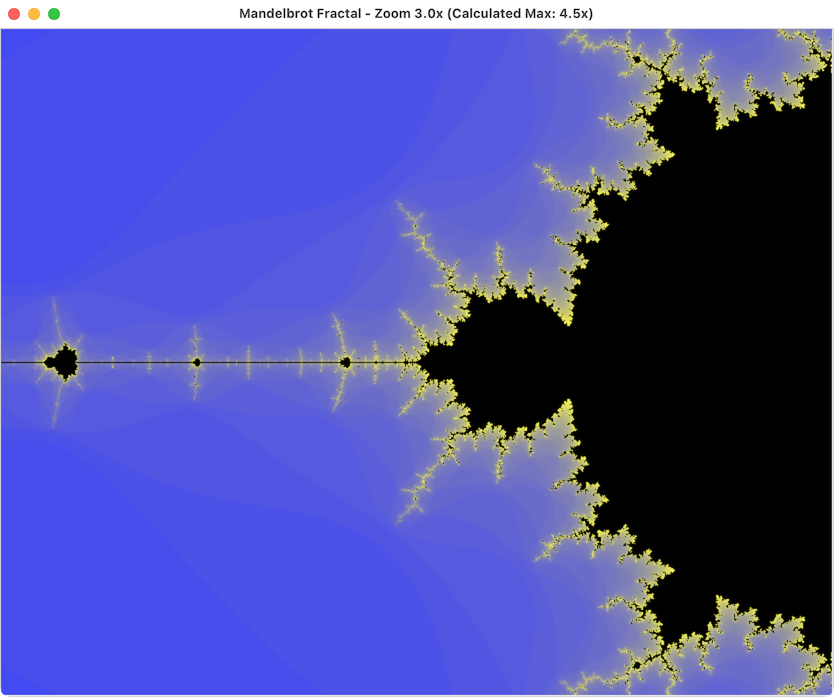
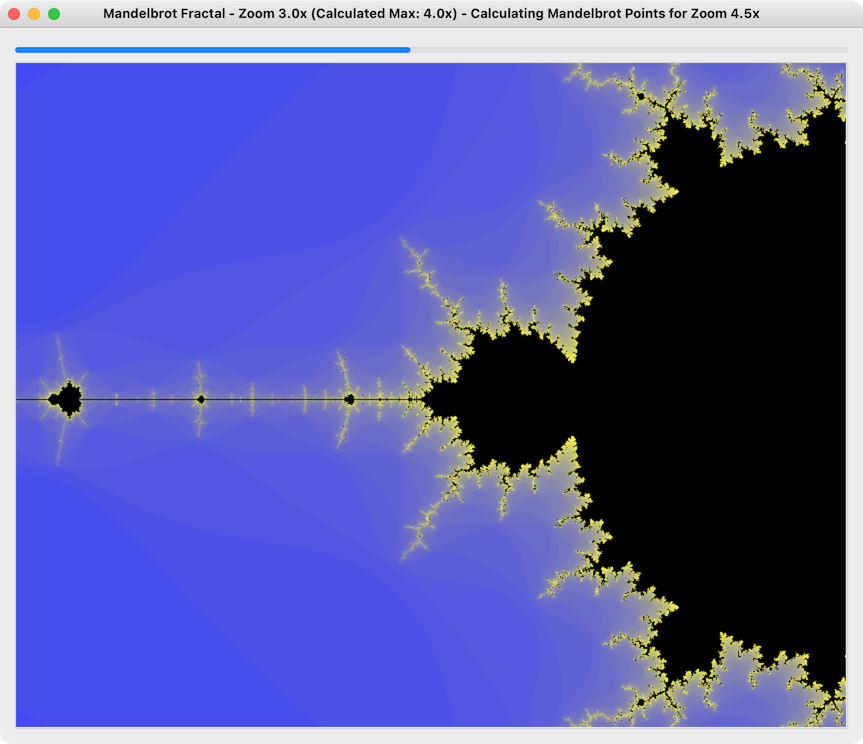
Mandelbrot Cores menu options to switch the number of CPU cores being used for calculation on the next zoom calculation cycle / Documented Hello, Progress Bar! / Added/Updated Mandelbrot/Hello-Progress-Bar Screenshots

Changed region(s): [[0.0, 0.0, 1.0, 1.0], [0.0624, 0.4218, 0.0935, 0.4519]]

diff --git a/samples/elaborate/mandelbrot_fractal.rb b/samples/elaborate/mandelbrot_fractal.rb
@@ -33,6 +33,7 @@ class Mandelbrot
   
   class << self
     attr_accessor :progress, :work_in_progress
+    attr_writer :processor_count
   
     def for(max_iterations:, zoom:, background: false)
       key = [max_iterations, zoom]
@@ -52,6 +53,10 @@ class Mandelbrot
     def creation_mutex
       @creation_mutex ||= Mutex.new
     end
+    
+    def processor_count
+      @processor_count ||= Concurrent.processor_count
+    end
   end
   
   attr_accessor :max_iterations, :background
@@ -65,7 +70,6 @@ class Mandelbrot
   def initialize(max_iterations:, zoom: 1.0, background: false)
     @max_iterations = max_iterations
     @zoom = zoom
-    @background = background
   end
   
   def step
@@ -92,18 +96,13 @@ class Mandelbrot
     @points ||= calculate_points
   end
   
-  def thread_count
-    # except on launch, shave two cores out for graphical user interface interaction and progress reporting to provide a better experience
-    @background ? [Concurrent.processor_count - 2, 1].max : Concurrent.processor_count
-  end
-  
   def calculate_points
     puts "Background calculation activated at zoom #{zoom}" if @background
     if @points_calculated
       puts "Points calculated already. Returning previously calculated points..."
       return @points
     end
-    thread_pool = Concurrent::FixedThreadPool.new(thread_count, fallback_policy: :discard)
+    thread_pool = Concurrent::FixedThreadPool.new(Mandelbrot.processor_count, fallback_policy: :discard)
     @points = Concurrent::Array.new(height)
     Mandelbrot.work_in_progress = "Calculating Mandelbrot Points for Zoom #{zoom}x"
     Mandelbrot.progress = 0
@@ -264,6 +263,31 @@ class MandelbrotFractal
           }
         }
         menu {
+          text '&Cores'
+          
+          Concurrent.processor_count.times {|n|
+            processor_number = n + 1
+            menu_item(:radio) {
+              text "&#{processor_number}"
+                
+              case processor_number
+              when 0..9
+                accelerator COMMAND, processor_number.to_s
+              when 10..19
+                accelerator COMMAND, :shift, (processor_number - 10).to_s
+              when 20..29
+                accelerator COMMAND, :alt, (processor_number - 20).to_s
+              end
+              
+              selection true if processor_number == Concurrent.processor_count
+              
+              on_widget_selected {
+                Mandelbrot.processor_count = n
+              }
+            }
+          }
+        }
+        menu {
           text '&Help'
           
           menu_item {
@@ -380,6 +404,7 @@ class MandelbrotFractal
         Left-click to zoom in.
         Right-click to zoom out.
         Scroll or drag to pan.
+        Lower cores to get more responsive interaction.
         
         Enjoy!
       MULTI_LINE_STRING

diff --git a/docs/reference/GLIMMER_SAMPLES.md b/docs/reference/GLIMMER_SAMPLES.md
@@ -36,6 +36,7 @@
     - [Hello, Canvas Animation!](#hello-canvas-animation)
     - [Hello, Canvas Transform!](#hello-canvas-transform)
     - [Hello, Cursor!](#hello-cursor)
+    - [Hello, Progress Bar!](#hello-progress-bar)
   - [Elaborate Samples](#elaborate-samples)
     - [User Profile](#user-profile)
     - [Login](#login)
@@ -600,6 +601,17 @@ Hello, Cursor!
 
 ![Hello Cursor](/images/glimmer-hello-cursor.gif)
 
+#### Hello, Progress Bar!
+
+This sample demonstrates the use of the `progress_bar` widget keyword.
+
+Code:
+
+[samples/hello/hello_progress_bar.rb](/samples/hello/hello_progress_bar.rb)
+
+Hello, Progress Bar!
+
+![Hello Progress Bar](/images/glimmer-hello-progress-bar.gif)
 
 ### Elaborate Samples
 
@@ -706,6 +718,8 @@ This sample demonstrates how to render canvas graphics with multi-threaded proce
 It renders the famous Mandelbrot Fractal, enabling zooming and panning (go to Help -> Instructions for more details)
 
 The Mandelbrot Fractal is known to take a long time to render, but thanks to multi-core processing, the app starts in about 10 seconds with 4 CPU cores (runs faster the more cores you have)
+
+Lower the cores in the menu to get more responsive interaction (e.g. zooming/panning). Once you change the cores, the change will not take effect till the next zoom calculation cycle.
 
 Code:
 

diff --git a/README.md b/README.md
@@ -1,4 +1,4 @@
-# [<img src="https://raw.githubusercontent.com/AndyObtiva/glimmer/master/images/glimmer-logo-hi-res.png" height=85 />](https://github.com/AndyObtiva/glimmer) Glimmer DSL for SWT 4.18.4.9
+# [<img src="https://raw.githubusercontent.com/AndyObtiva/glimmer/master/images/glimmer-logo-hi-res.png" height=85 />](https://github.com/AndyObtiva/glimmer) Glimmer DSL for SWT 4.18.4.10
 ## JRuby Desktop Development GUI Framework
 [![Gem Version](https://badge.fury.io/rb/glimmer-dsl-swt.svg)](http://badge.fury.io/rb/glimmer-dsl-swt)
 [![Travis CI](https://travis-ci.com/AndyObtiva/glimmer-dsl-swt.svg?branch=master)](https://travis-ci.com/github/AndyObtiva/glimmer-dsl-swt)
@@ -342,7 +342,7 @@ jgem install glimmer-dsl-swt
 
 Or this command if you want a specific version:
 ```
-jgem install glimmer-dsl-swt -v 4.18.4.9
+jgem install glimmer-dsl-swt -v 4.18.4.10
 ```
 
 `jgem` is JRuby's version of `gem` command.
@@ -360,7 +360,7 @@ Note: if you're using activerecord or activesupport, keep in mind that Glimmer u
 
 Add the following to `Gemfile`:
 ```
-gem 'glimmer-dsl-swt', '~> 4.18.4.9'
+gem 'glimmer-dsl-swt', '~> 4.18.4.10'
 ```
 
 And, then run:

diff --git a/CHANGELOG.md b/CHANGELOG.md
@@ -6,6 +6,7 @@
 - Alias shell as window, Glimmer::UI::CustomShell as Glimmer::UI::CustomWindow, on_shell_xyz events as on_window_xyz events, and :shell_trim SWT style as :window_trim SWT Glimmer custom style
 - `bind` option of `async_exec` or `sync_exec` (e.g. `bind(model, :property, async_exec: true)`) to perform GUI updates from another thread safely
 - Show progress bar for Mandelbrot calculation
+- Mandelbrot Cores menu options to switch the number of CPU cores being used for calculation on the next zoom calculation cycle
 
 ### 4.18.4.9
 

diff --git a/TODO.md b/TODO.md
@@ -10,6 +10,21 @@ example:
 new_mandelbrot_image.draw_each_pixel do |x, y|
   color_palette[pixels[y][x]]
 end
+
+# or
+
+image(300, 300) {
+  each_pixel do |x, y|
+    color_palette[pixels[y][x]]
+  end
+}
+
+# or
+
+image(300, 300) { |x, y|
+  color_palette[pixels[y][x]]
+}
+
 ```
 
 - Center mandelbrot where mouse is clicked upon zoom
